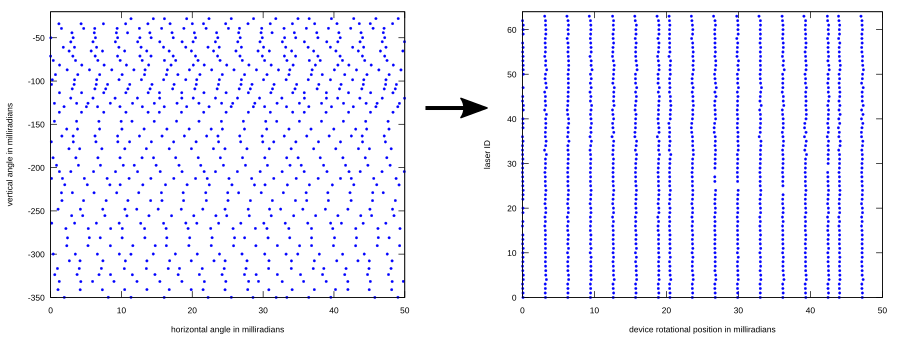
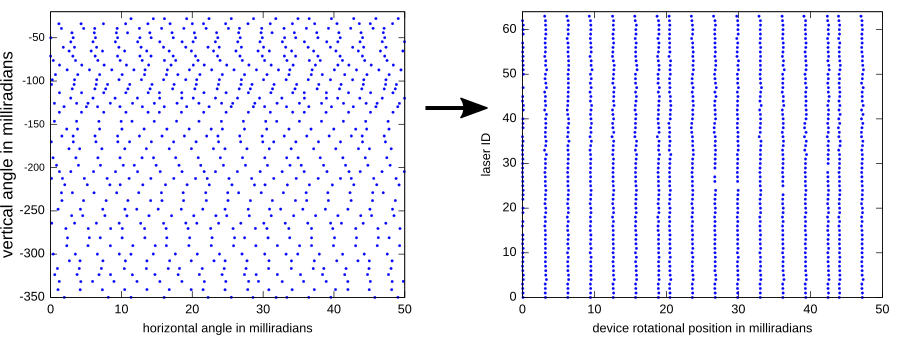
typo. fonts in figure bigger

diff --git a/README.md b/README.md
@@ -8,7 +8,7 @@ The following figure shows the current status. On the left is the projection of 
 
 <img src="./front.png">
 
-It is clear that the left is easier to descritize and use in a standard convolutional network.
+It is clear that the left is easier to discretize and use in a standard convolutional network.
 
 Next up is reverting the motion correction used in most of the KITTI benchmarks.
 
